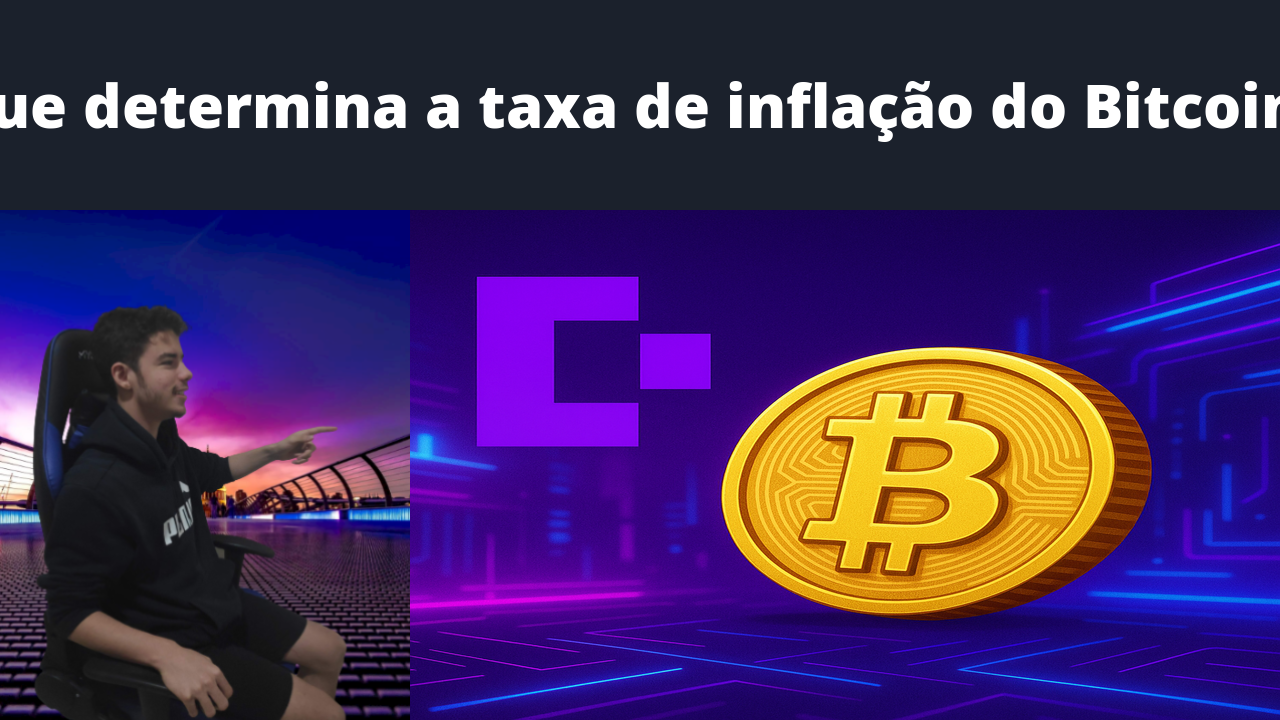
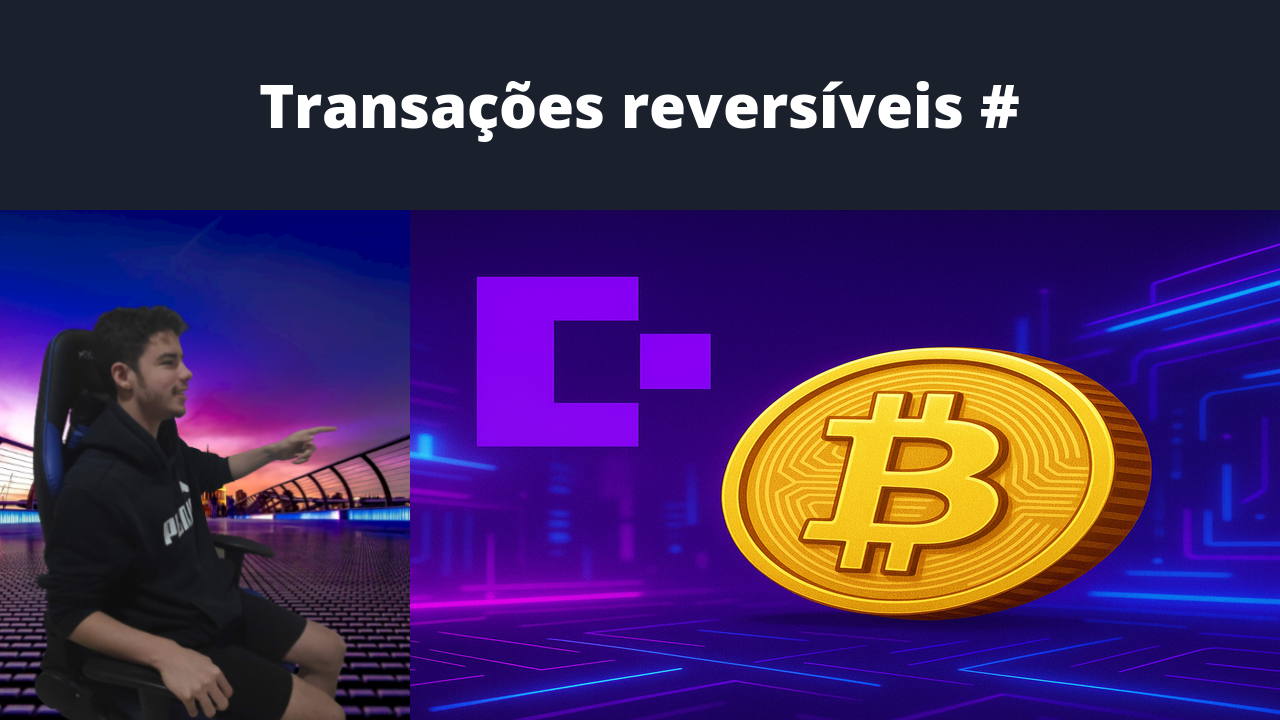
chore: add title fix: series number

Changed region(s): [[0.0, 0.0917, 1.0, 0.2139]]

diff --git a/out/titles/Mastering Bitcoin.md b/out/titles/Mastering Bitcoin.md
@@ -3,20 +3,20 @@ https://youtube.googleapis.com/youtube/v3/search?part=snippet&forMine=true&maxRe
 { "kind": "youtube#searchListResponse", "etag": "SmARg9TOAgZzTfXPxly1naHR2_I", "pageInfo": { "totalResults": 11, "resultsPerPage": 50 }, "items": [ { "kind": "youtube#searchResult", "etag": "CKnAmYosQyrPlKAf-3r2torfKd0", "id": { "kind": "youtube#video", "videoId": "P7Z4iXNiw8Q" }, "snippet": { "publishedAt": "2025-06-07T23:26:08Z", "channelId": "UCgZB7eGBo6sKBwRfSzCQoJg", "title": "Bitcoin Core implementação de referência Mastering Bitcoin 11", "description": "", "thumbnails": { "default": { "url": "https://i.ytimg.com/vi/P7Z4iXNiw8Q/default.jpg", "width": 120, "height": 90 }, "medium": { "url": "https://i.ytimg.com/vi/P7Z4iXNiw8Q/mqdefault.jpg", "width": 320, "height": 180 }, "high": { "url": "https://i.ytimg.com/vi/P7Z4iXNiw8Q/hqdefault.jpg", "width": 480, "height": 360 }, "standard": { "url": "https://i.ytimg.com/vi/P7Z4iXNiw8Q/sddefault.jpg", "width": 640, "height": 480 }, "maxres": { "url": "https://i.ytimg.com/vi/P7Z4iXNiw8Q/maxresdefault.jpg", "width": 1280, "height": 720 } }, "channelTitle": "Juan Colchete", "liveBroadcastContent": "none", "publishTime": "2025-06-07T23:26:08Z" } }, { "kind": "youtube#searchResult", "etag": "8-lTL4OBUusZ7RiUi7DzM-z62KY", "id": { "kind": "youtube#video", "videoId": "5KXJZ-K2YFI" }, "snippet": { "publishedAt": "2025-06-07T23:26:02Z", "channelId": "UCgZB7eGBo6sKBwRfSzCQoJg", "title": "Porque a estrutura de rede não é hierárquica Mastering Bitcoin 10", "description": "", "thumbnails": { "default": { "url": "https://i.ytimg.com/vi/5KXJZ-K2YFI/default.jpg", "width": 120, "height": 90 }, "medium": { "url": "https://i.ytimg.com/vi/5KXJZ-K2YFI/mqdefault.jpg", "width": 320, "height": 180 }, "high": { "url": "https://i.ytimg.com/vi/5KXJZ-K2YFI/hqdefault.jpg", "width": 480, "height": 360 }, "standard": { "url": "https://i.ytimg.com/vi/5KXJZ-K2YFI/sddefault.jpg", "width": 640, "height": 480 }, "maxres": { "url": "https://i.ytimg.com/vi/5KXJZ-K2YFI/maxresdefault.jpg", "width": 1280, "height": 720 } }, "channelTitle": "Juan Colchete", "liveBroadcastContent": "none", "publishTime": "2025-06-07T23:26:02Z" } }, { "kind": "youtube#searchResult", "etag": "DV9dnH8LuYoWc30lZHcTtclQITU", "id": { "kind": "youtube#video", "videoId": "wZa4vgP9BQo" }, "snippet": { "publishedAt": "2025-06-07T23:25:57Z", "channelId": "UCgZB7eGBo6sKBwRfSzCQoJg", "title": "O que são entradas e saidas Mastering Bitcoin 9", "description": "", "thumbnails": { "default": { "url": "https://i.ytimg.com/vi/wZa4vgP9BQo/default.jpg", "width": 120, "height": 90 }, "medium": { "url": "https://i.ytimg.com/vi/wZa4vgP9BQo/mqdefault.jpg", "width": 320, "height": 180 }, "high": { "url": "https://i.ytimg.com/vi/wZa4vgP9BQo/hqdefault.jpg", "width": 480, "height": 360 }, "standard": { "url": "https://i.ytimg.com/vi/wZa4vgP9BQo/sddefault.jpg", "width": 640, "height": 480 }, "maxres": { "url": "https://i.ytimg.com/vi/wZa4vgP9BQo/maxresdefault.jpg", "width": 1280, "height": 720 } }, "channelTitle": "Juan Colchete", "liveBroadcastContent": "none", "publishTime": "2025-06-07T23:25:57Z" } }, { "kind": "youtube#searchResult", "etag": "8EyCIKflMnv-u9UtyaECKcNGg4U", "id": { "kind": "youtube#video", "videoId": "LziW22FFQ20" }, "snippet": { "publishedAt": "2025-06-07T23:25:51Z", "channelId": "UCgZB7eGBo6sKBwRfSzCQoJg", "title": "Transações são cadeias de assinaturas digitais Mastering Bitcoin 8", "description": "", "thumbnails": { "default": { "url": "https://i.ytimg.com/vi/LziW22FFQ20/default.jpg", "width": 120, "height": 90 }, "medium": { "url": "https://i.ytimg.com/vi/LziW22FFQ20/mqdefault.jpg", "width": 320, "height": 180 }, "high": { "url": "https://i.ytimg.com/vi/LziW22FFQ20/hqdefault.jpg", "width": 480, "height": 360 }, "standard": { "url": "https://i.ytimg.com/vi/LziW22FFQ20/sddefault.jpg", "width": 640, "height": 480 }, "maxres": { "url": "https://i.ytimg.com/vi/LziW22FFQ20/maxresdefault.jpg", "width": 1280, "height": 720 } }, "channelTitle": "Juan Colchete", "liveBroadcastContent": "none", "publishTime": "2025-06-07T23:25:51Z" } }, { "kind": "youtube#searchResult", "etag": "o_1lWEKDAl5CLQRe_BwCovz1e40", "id": { "kind": "youtube#video", "videoId": "mgc4KJ8klUM" }, "snippet": { "publishedAt": "2025-06-07T23:25:42Z", "channelId": "UCgZB7eGBo6sKBwRfSzCQoJg", "title": "Prova de trabalho agulha no palheiro Mastering Bitcoin 7", "description": "", "thumbnails": { "default": { "url": "https://i.ytimg.com/vi/mgc4KJ8klUM/default.jpg", "width": 120, "height": 90 }, "medium": { "url": "https://i.ytimg.com/vi/mgc4KJ8klUM/mqdefault.jpg", "width": 320, "height": 180 }, "high": { "url": "https://i.ytimg.com/vi/mgc4KJ8klUM/hqdefault.jpg", "width": 480, "height": 360 }, "standard": { "url": "https://i.ytimg.com/vi/mgc4KJ8klUM/sddefault.jpg", "width": 640, "height": 480 }, "maxres": { "url": "https://i.ytimg.com/vi/mgc4KJ8klUM/maxresdefault.jpg", "width": 1280, "height": 720 } }, "channelTitle": "Juan Colchete", "liveBroadcastContent": "none", "publishTime": "2025-06-07T23:25:42Z" } }, { "kind": "youtube#searchResult", "etag": "ezS5CRo9pug31mROp4GDKKlEeII", "id": { "kind": "youtube#video", "videoId": "CA7iN-ebHMk" }, "snippet": { "publishedAt": "2025-06-07T20:57:01Z", "channelId": "UCgZB7eGBo6sKBwRfSzCQoJg", "title": "O que é gasto duplo e como o bitcoin resolve Mastering Bitcoin 6", "description": "", "thumbnails": { "default": { "url": "https://i.ytimg.com/vi/CA7iN-ebHMk/default.jpg", "width": 120, "height": 90 }, "medium": { "url": "https://i.ytimg.com/vi/CA7iN-ebHMk/mqdefault.jpg", "width": 320, "height": 180 }, "high": { "url": "https://i.ytimg.com/vi/CA7iN-ebHMk/hqdefault.jpg", "width": 480, "height": 360 }, "standard": { "url": "https://i.ytimg.com/vi/CA7iN-ebHMk/sddefault.jpg", "width": 640, "height": 480 }, "maxres": { "url": "https://i.ytimg.com/vi/CA7iN-ebHMk/maxresdefault.jpg", "width": 1280, "height": 720 } }, "channelTitle": "Juan Colchete", "liveBroadcastContent": "none", "publishTime": "2025-06-07T20:57:01Z" } }, { "kind": "youtube#searchResult", "etag": "GHJ2E-hIBF4X0q8IvaZ80u0fWlQ", "id": { "kind": "youtube#video", "videoId": "0aEdpuCC_uY" }, "snippet": { "publishedAt": "2025-05-03T21:10:24Z", "channelId": "UCgZB7eGBo6sKBwRfSzCQoJg", "title": "Transações reversíveis Mastering Bitcoin 3", "description": "", "thumbnails": { "default": { "url": "https://i.ytimg.com/vi/0aEdpuCC_uY/default.jpg", "width": 120, "height": 90 }, "medium": { "url": "https://i.ytimg.com/vi/0aEdpuCC_uY/mqdefault.jpg", "width": 320, "height": 180 }, "high": { "url": "https://i.ytimg.com/vi/0aEdpuCC_uY/hqdefault.jpg", "width": 480, "height": 360 }, "standard": { "url": "https://i.ytimg.com/vi/0aEdpuCC_uY/sddefault.jpg", "width": 640, "height": 480 }, "maxres": { "url": "https://i.ytimg.com/vi/0aEdpuCC_uY/maxresdefault.jpg", "width": 1280, "height": 720 } }, "channelTitle": "Juan Colchete", "liveBroadcastContent": "none", "publishTime": "2025-05-03T21:10:24Z" } }, { "kind": "youtube#searchResult", "etag": "NQDfTZDZAs-MMpaavxb3BRhLZho", "id": { "kind": "youtube#video", "videoId": "durjTh544jo" }, "snippet": { "publishedAt": "2025-05-03T21:10:09Z", "channelId": "UCgZB7eGBo6sKBwRfSzCQoJg", "title": "O que determina a taxa de inflação do Bitcoin Mastering Bitcoin 5", "description": "", "thumbnails": { "default": { "url": "https://i.ytimg.com/vi/durjTh544jo/default.jpg", "width": 120, "height": 90 }, "medium": { "url": "https://i.ytimg.com/vi/durjTh544jo/mqdefault.jpg", "width": 320, "height": 180 }, "high": { "url": "https://i.ytimg.com/vi/durjTh544jo/hqdefault.jpg", "width": 480, "height": 360 }, "standard": { "url": "https://i.ytimg.com/vi/durjTh544jo/sddefault.jpg", "width": 640, "height": 480 }, "maxres": { "url": "https://i.ytimg.com/vi/durjTh544jo/maxresdefault.jpg", "width": 1280, "height": 720 } }, "channelTitle": "Juan Colchete", "liveBroadcastContent": "none", "publishTime": "2025-05-03T21:10:09Z" } }, { "kind": "youtube#searchResult", "etag": "Qg1vYp_FgAVtvimn916lJ_Wpzno", "id": { "kind": "youtube#video", "videoId": "mn3tkvu8g0s" }, "snippet": { "publishedAt": "2025-05-03T21:09:52Z", "channelId": "UCgZB7eGBo6sKBwRfSzCQoJg", "title": "Porque a taxa de transação é necessária? Mastering Bitcoin 4", "description": "", "thumbnails": { "default": { "url": "https://i.ytimg.com/vi/mn3tkvu8g0s/default.jpg", "width": 120, "height": 90 }, "medium": { "url": "https://i.ytimg.com/vi/mn3tkvu8g0s/mqdefault.jpg", "width": 320, "height": 180 }, "high": { "url": "https://i.ytimg.com/vi/mn3tkvu8g0s/hqdefault.jpg", "width": 480, "height": 360 }, "standard": { "url": "https://i.ytimg.com/vi/mn3tkvu8g0s/sddefault.jpg", "width": 640, "height": 480 }, "maxres": { "url": "https://i.ytimg.com/vi/mn3tkvu8g0s/maxresdefault.jpg", "width": 1280, "height": 720 } }, "channelTitle": "Juan Colchete", "liveBroadcastContent": "none", "publishTime": "2025-05-03T21:09:52Z" } }, { "kind": "youtube#searchResult", "etag": "wkb4Ac3zapWgkfC3JqW_CMD3M0w", "id": { "kind": "youtube#video", "videoId": "Hujt0gZ1c68" }, "snippet": { "publishedAt": "2025-05-03T21:09:39Z", "channelId": "UCgZB7eGBo6sKBwRfSzCQoJg", "title": "O que é UTXO ? Mastering Bitcoin 2", "description": "", "thumbnails": { "default": { "url": "https://i.ytimg.com/vi/Hujt0gZ1c68/default.jpg", "width": 120, "height": 90 }, "medium": { "url": "https://i.ytimg.com/vi/Hujt0gZ1c68/mqdefault.jpg", "width": 320, "height": 180 }, "high": { "url": "https://i.ytimg.com/vi/Hujt0gZ1c68/hqdefault.jpg", "width": 480, "height": 360 }, "standard": { "url": "https://i.ytimg.com/vi/Hujt0gZ1c68/sddefault.jpg", "width": 640, "height": 480 }, "maxres": { "url": "https://i.ytimg.com/vi/Hujt0gZ1c68/maxresdefault.jpg", "width": 1280, "height": 720 } }, "channelTitle": "Juan Colchete", "liveBroadcastContent": "none", "publishTime": "2025-05-03T21:09:39Z" } }, { "kind": "youtube#searchResult", "etag": "s0F28X8jib5WyWrcPFOAuQj_ABo", "id": { "kind": "youtube#video", "videoId": "qDoZElkVCCY" }, "snippet": { "publishedAt": "2025-05-03T21:09:17Z", "channelId": "UCgZB7eGBo6sKBwRfSzCQoJg", "title": "Como bitcoin resolve o problema das moedas digitais Mastering Bitcoin 1", "description": "", "thumbnails": { "default": { "url": "https://i.ytimg.com/vi/qDoZElkVCCY/default.jpg", "width": 120, "height": 90 }, "medium": { "url": "https://i.ytimg.com/vi/qDoZElkVCCY/mqdefault.jpg", "width": 320, "height": 180 }, "high": { "url": "https://i.ytimg.com/vi/qDoZElkVCCY/hqdefault.jpg", "width": 480, "height": 360 }, "standard": { "url": "https://i.ytimg.com/vi/qDoZElkVCCY/sddefault.jpg", "width": 640, "height": 480 }, "maxres": { "url": "https://i.ytimg.com/vi/qDoZElkVCCY/maxresdefault.jpg", "width": 1280, "height": 720 } }, "channelTitle": "Juan Colchete", "liveBroadcastContent": "none", "publishTime": "2025-05-03T21:09:17Z" } } ] }
 ===VIDEOSEARCH===
 ===SERIES NUMBER===
-1
-1
+11
+11
 ===SERIES NUMBER===
 ===SERIES NUMBER===
-1
-1
+10
+10
 ===SERIES NUMBER===
 ===SERIES NUMBER===
 9
 9
 ===SERIES NUMBER===
 ===SERIES NUMBER===
-
-
+8
+8
 ===SERIES NUMBER===
 ===SERIES NUMBER===
 7
@@ -27,16 +27,16 @@ https://youtube.googleapis.com/youtube/v3/search?part=snippet&forMine=true&maxRe
 6
 ===SERIES NUMBER===
 ===SERIES NUMBER===
-
-
+3
+3
 ===SERIES NUMBER===
 ===SERIES NUMBER===
 5
 5
 ===SERIES NUMBER===
 ===SERIES NUMBER===
-
-
+4
+4
 ===SERIES NUMBER===
 ===SERIES NUMBER===
 2
@@ -50,17 +50,21 @@ https://youtube.googleapis.com/youtube/v3/search?part=snippet&forMine=true&maxRe
 [video](https://youtu.be/qDoZElkVCCY)
 ## O que é UTXO ? #2
 [video](https://youtu.be/Hujt0gZ1c68)
-
-
-
-
+## Transações reversíveis #3
+[video](https://youtu.be/0aEdpuCC_uY)
+## Porque a taxa de transação é necessária? #4
+[video](https://youtu.be/mn3tkvu8g0s)
 ## O que determina a taxa de inflação do Bitcoin #5
 [video](https://youtu.be/durjTh544jo)
 ## O que é gasto duplo e como o bitcoin resolve #6
 [video](https://youtu.be/CA7iN-ebHMk)
 ## Prova de trabalho agulha no palheiro #7
 [video](https://youtu.be/mgc4KJ8klUM)
-
-
+## Transações são cadeias de assinaturas digitais #8
+[video](https://youtu.be/LziW22FFQ20)
 ## O que são entradas e saidas #9
 [video](https://youtu.be/wZa4vgP9BQo)
+## Porque a estrutura de rede não é hierárquica #10
+[video](https://youtu.be/5KXJZ-K2YFI)
+## Bitcoin Core implementação de referência #11
+[video](https://youtu.be/P7Z4iXNiw8Q)
